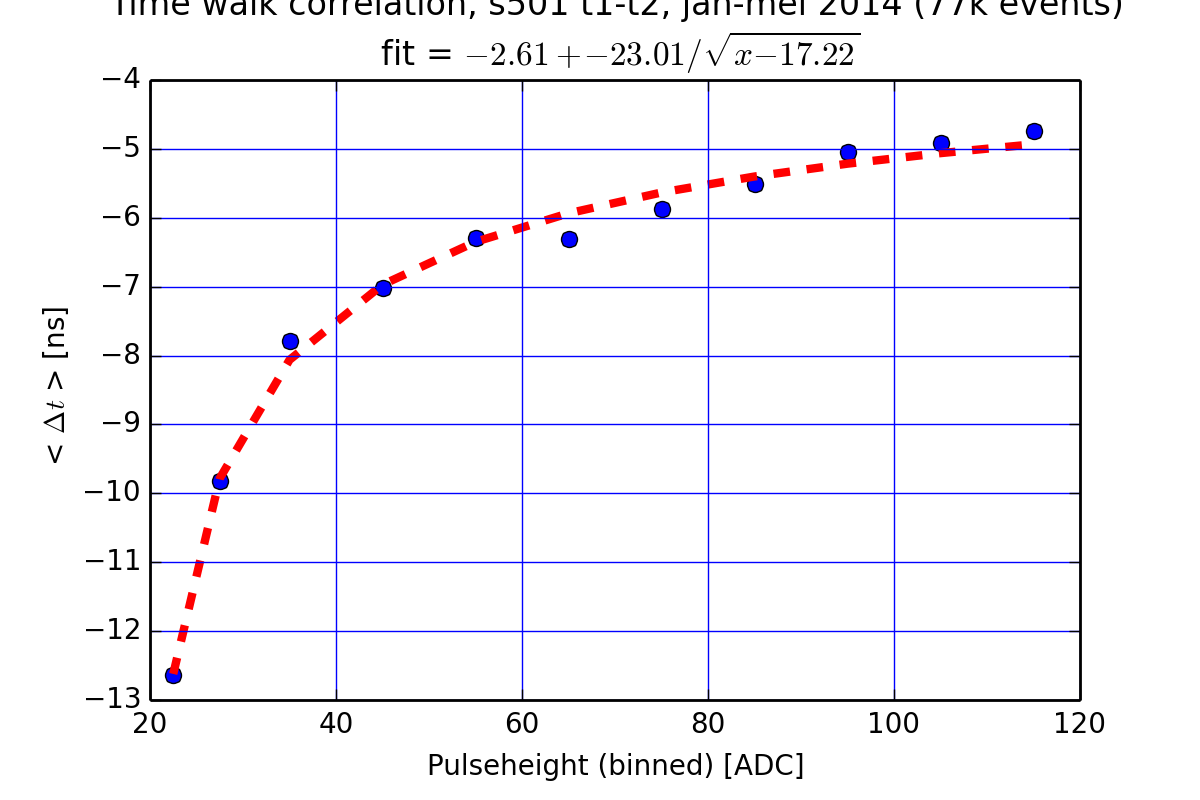
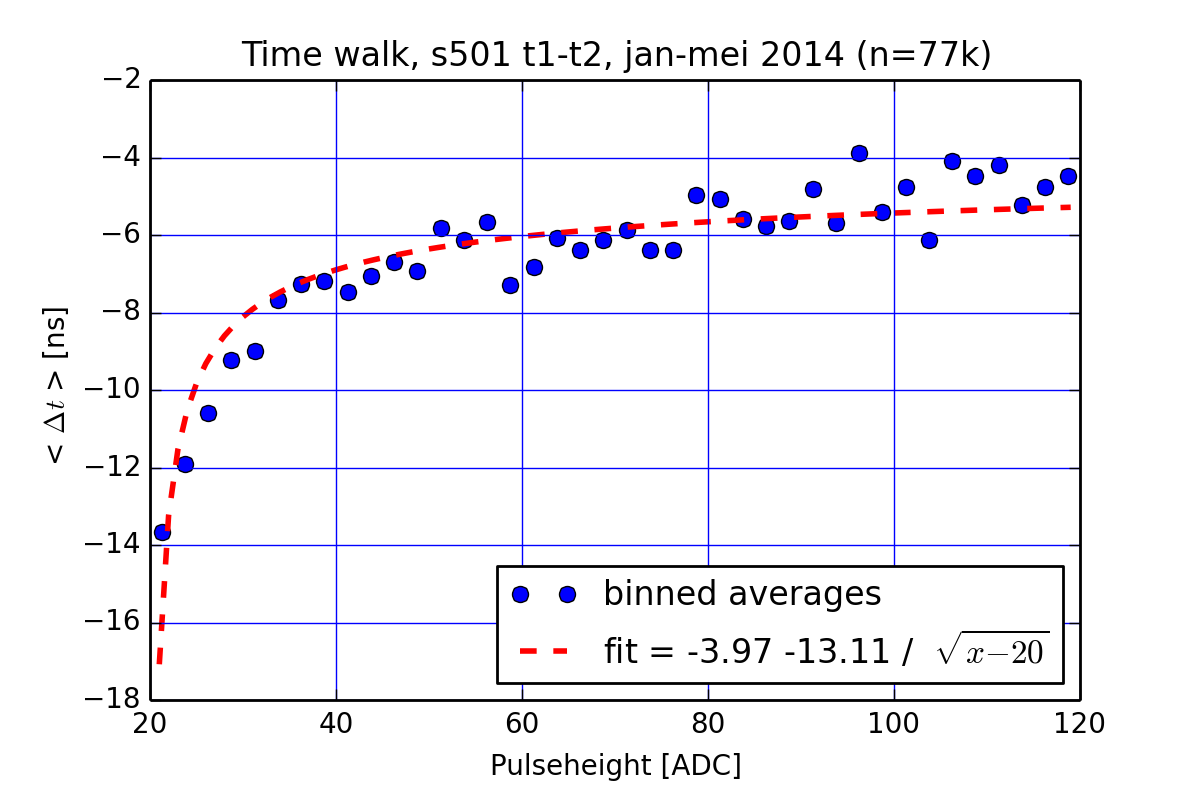
fitted w1+w2/sqrt(x)

diff --git a/timewalk/walk.py b/timewalk/walk.py
@@ -180,65 +180,92 @@ spreiding van 0.3563. Plaatje 1 showt de positie van de piek,plaatje 2 de
 breedte ervan.
 """
 
-    selection = [ [20,25], [25,30], [30,40], [40,50], [50,60], [60,70],
-                    [70,80], [80,90], [90,100], [100,110], [110,120]]
+    #selection = [ [20,25], [25,30], [30,40], [40,50], [50,60], [60,70],[70,80], [80,90], [90,100], [100,110], [110,120]]
+
+    left_bin = np.arange(20.,120, 2.5)
+    selection = [ [k,k+2.5] for k in left_bin]
 
     middle_of_selection = [(s[0]+s[1])/2. for s in selection]
 
     # Jos: -40 tot -20, rekeninghoudende met stapgrootte 2.5ns
     bins_edges = np.arange(-41.25,21.25,2.5)
     bins_middle = np.arange(-40,20,2.5)
-    mu_list = []
-    sigma_list = []
 
+    # sla de analyse over als de data al in geheugen staat.
+    if 1: #'mu_list' not in globals():
+        print "First run. Doing analysis."
+        # bepaal de gemiddelde t_walk per bin
+        mu_list = []
+        sigma_list = []
 
-    for r in selection:
-      t_ph = selected_dt.compress((selected_ph2 > r[0]) & (selected_ph2 <= r[1]) & (selected_dt >= -40.) & (selected_dt <= 20.) )
-      plt.figure()
-      n, bins, troep = plt.hist(t_ph,bins=bins_edges, histtype='step')
-      plt.xlabel('delta-t [ns]')
+        for r in selection:
+          t_ph = selected_dt.compress((selected_ph2 > r[0]) & (selected_ph2 <= r[1]) & (selected_dt >= -40.) & (selected_dt <= 20.) )
+          plt.figure()
+          n, bins, troep = plt.hist(t_ph,bins=bins_edges, histtype='step')
+          plt.xlabel('delta-t [ns]')
 
-      # fit a gaussian (see lio_project/gauss_fit_histogram/)
-      c = gauss_fit_histogram(n, bins_middle)
-      mu = c[1]
-      sigma = c[2]
+          # fit a gaussian (see lio_project/gauss_fit_histogram/)
+          c = gauss_fit_histogram(n, bins_middle)
+          mu = c[1]
+          sigma = c[2]
 
-      # stor fitted mu, sigma
-      mu_list.append(mu)
-      sigma_list.append(sigma)
+          # stor fitted mu, sigma
+          mu_list.append(mu)
+          sigma_list.append(sigma)
 
-      # plot the fit
-      plt.plot(bins, fitfunc(c, bins),'r--', linewidth=3)
+          # plot the fit
+          plt.plot(bins, fitfunc(c, bins),'r--', linewidth=3)
 
-      # state the ph selection and fitted mu, sigma in title
-      plt.title(r'%d < ph <= %d $\ \mu = %2.2f\ \sigma = %2.1f$' % (int(r[0]),int(r[1]),mu, sigma))
+          # state the ph selection and fitted mu, sigma in title
+          plt.title(r'%d < ph <= %d fit: $\ \mu = %2.2f\ \sigma = %2.1f$' % (int(r[0]),int(r[1]),mu, sigma))
 
-      plt.show()
+          plt.show()
 
 
     print "list of averages: \n",mu_list
+    print "std deviations avg: ", np.mean(sigma_list), np.std(sigma_list)
 
-    plt.figure()
-    plt.plot(middle_of_selection, mu_list, 'bo')
-    plt.grid(b=True, which='major', color='b', linestyle='-')
-    plt.xlabel('Pulseheight (binned) [ADC]')
-    plt.ylabel(r' < $\Delta t$ > [ns]')
 
     # time-walk correction function
-    # fit w1 + w2/sqrt(x-w3)
-    fitfunc1  = lambda p, x: p[0]+p[1]/np.sqrt(x-p[2])
+    # fit c/sqrt(x)
+    #  c een constante is per PMT verschillend
+    #   x is eigenlijk de lading van de PMT (q, Q) hier nemen we pulshoogte
+    # Ref: Brown et al, Nucl.Instrum.Meth. A221 (1984) 503
+    #
+    # De fit is matig. Beter is:
+    # w1+w2/sqrt(x)
+    # Ref: Smith, Nasseripour, Systematic Study of time walk corrections for the TOF counters, CLAS NOTE 2002-007.
+    # t = 0 at 20 ADC counts -> fit = w1 + w2 / sqrt(x-20)
+    fitfunc1  = lambda p, x: p[0]+p[1]/np.sqrt(x - 20.)
     errfunc1  = lambda p, x, y: (y - fitfunc1(p, x))
 
+    fitfunc2  = lambda p, x: p[0]+p[1]/np.sqrt(x - 20.)
+    errfunc2  = lambda p, x, y: (y - fitfunc1(p, x))
+    #
+    # calculate middle of bins for fitting and plotting
+    #
+    fit_bins = np.array([(s[0]+s[1])/2. for s in selection])
+
     # leastsquares fit
-    init = [1.,1.,-20.]
-    out = leastsq(errfunc1, init, args=(middle_of_selection, mu_list))
+    init = [1.,-1.]
+    out = leastsq(errfunc1, init, args=(fit_bins, mu_list))
     print "fit: ",out
 
-    # plot fit
+    # plot and plot fit
+
+    plt.figure()
+    plt.plot(fit_bins, mu_list, 'bo')
+#    plt.errorbar(fit_bins,  mu_list, yerr=sigma_list, fmt='bo')
+    plt.grid(b=True, which='major', color='b', linestyle='-')
+    plt.xlabel('Pulseheight [ADC]')
+    plt.ylabel(r' < $\Delta t$ > [ns]')
+
     fit = out[0]
-    plt.plot(middle_of_selection, fitfunc1(fit, middle_of_selection),'r--', linewidth=3)
-    plt.title('Time walk correlation, s501 t1-t2, jan-mei 2014 (77k events)\n fit = $ %2.2f + %2.2f / \sqrt{ x - %2.2f }$'% (fit[0], fit[1], fit[2]) )
+    plt.plot(np.arange(20,120,1), fitfunc1(fit, np.arange(20,120,1)),'r--', linewidth=2)
+    plt.title('Time walk, s501 t1-t2, jan-mei 2014 (n=77k)' )
+    plt.legend(['binned averages','fit = %2.2f %2.2f /  $ \sqrt{ x - 20 }$' % (fit[0], fit[1])], loc=4)
     plt.savefig('time_walk.png',dpi=200)
     plt.show()
+
 
     #data.close()
